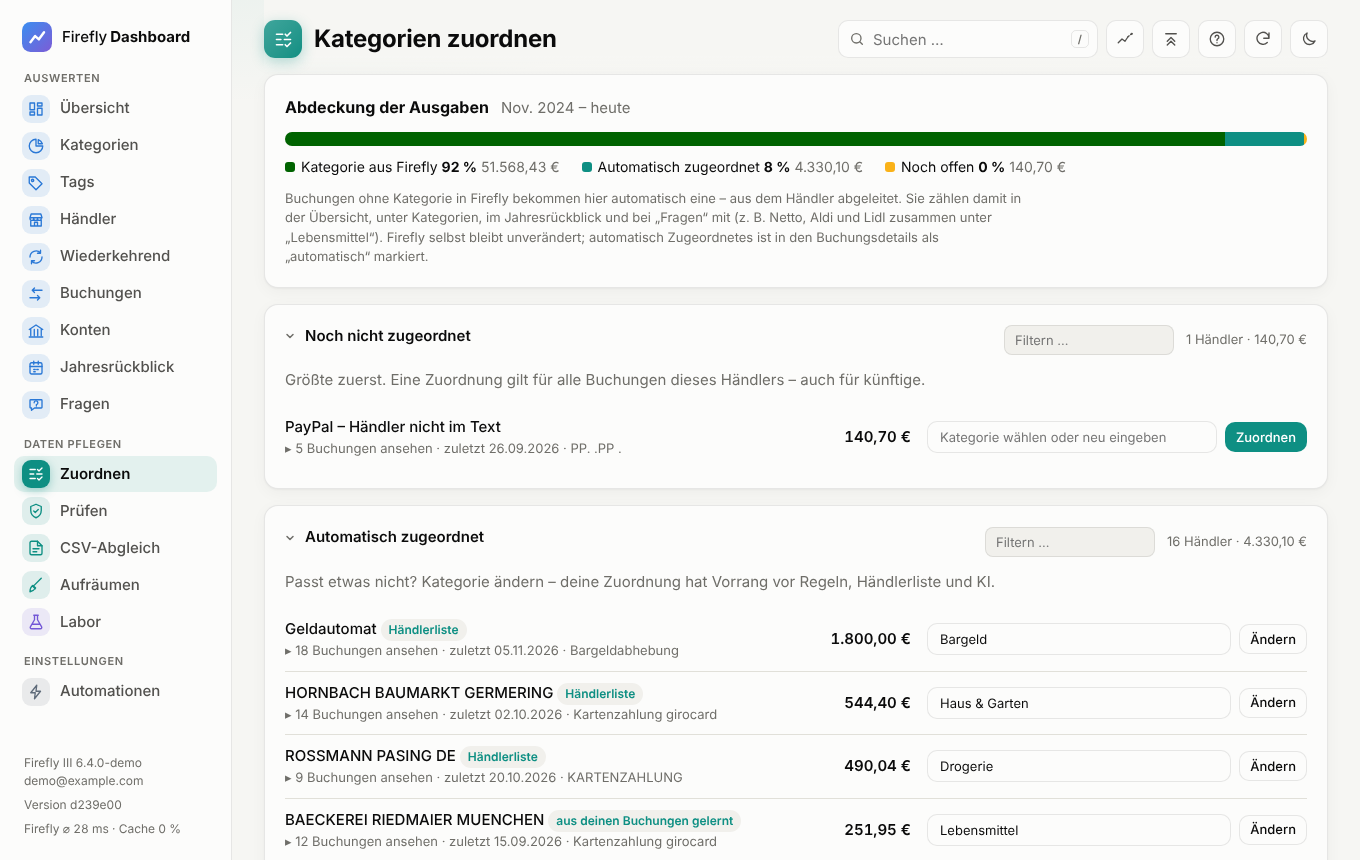
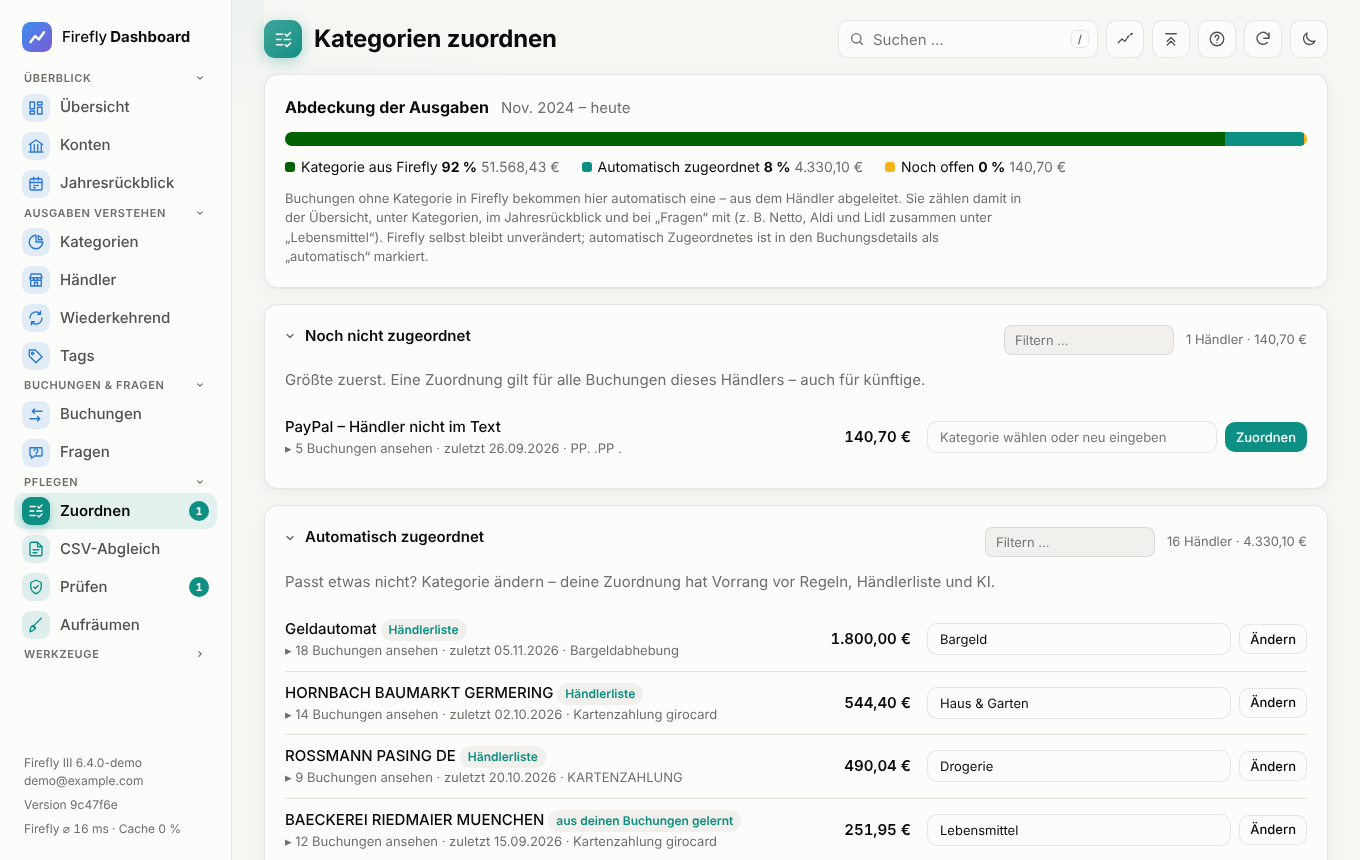
Menü überarbeitet: Gruppen nach Aufgaben, Zähler, Handy-Blatt mit Suche
- Gruppen: Überblick · Ausgaben verstehen · Buchungen & Fragen · Pflegen ·
  Werkzeuge (neu im Menü: Hilfe). Am Desktop einklappbar, Zustand gemerkt,
  die Gruppe der aktuellen Seite bleibt offen; „Werkzeuge“ anfangs zu.
- Zähler an Seiten mit offenen Aufgaben: Zuordnen (Händler ohne Kategorie),
  Prüfen (Hinweise), Wiederkehrend (Kündigungsfristen in 30 Tagen); am Handy
  als Punkt an „Mehr“, wenn der Eintrag nicht in der unteren Leiste steht.
- Handy: „Mehr“ als gegliedertes Blatt mit „Seite suchen“; die untere Leiste
  ist selbst wählbar (bis zu vier Einträge, Standard: Übersicht, Kategorien,
  Buchungen, Wiederkehrend).
- README-Bilder neu (Menü auf allen Bildern).

Claude-Session: https://claude.ai/code/session_017CCe4q4F121UhA8tHqTQzy

diff --git a/public/index.html b/public/index.html
@@ -29,24 +29,51 @@
         <span>Firefly<b>Dashboard</b></span>
       </a>
       <nav class="nav" id="nav" aria-label="Hauptnavigation">
-        <div class="nav-group" role="presentation">Auswerten</div>
-        <a href="#/" data-route="overview" data-primary><svg viewBox="0 0 24 24"><path d="M4 13h6V4H4zm10 7h6v-9h-6zM4 20h6v-4H4zm10-16v4h6V4z"/></svg><span>Übersicht</span></a>
-        <a href="#/kategorien" data-route="categories" data-primary><svg viewBox="0 0 24 24"><path d="M12 3a9 9 0 1 0 9 9h-9z"/><path d="M15 3.5A9 9 0 0 1 20.5 9H15z"/></svg><span>Kategorien</span></a>
-        <a href="#/tags" data-route="tags"><svg viewBox="0 0 24 24"><path d="M3 12V4h8l9 9-8 8z"/><circle cx="7.5" cy="8.5" r="1.5"/></svg><span>Tags</span></a>
-        <a href="#/empfaenger" data-route="merchants"><svg viewBox="0 0 24 24"><path d="M4 9l1.5-5h13L20 9M4 9h16M4 9v1a2.5 2.5 0 0 0 5 0 2.5 2.5 0 0 0 5 0 2.5 2.5 0 0 0 5 0V9M5 12v8h14v-8M10 20v-5h4v5"/></svg><span>Händler</span></a>
-        <a href="#/wiederkehrend" data-route="recurring"><svg viewBox="0 0 24 24"><path d="M4 12a8 8 0 0 1 14-5.3M20 12a8 8 0 0 1-14 5.3M18 3v4h-4M6 21v-4h4"/></svg><span>Wiederkehrend</span></a>
-        <a href="#/buchungen" data-route="transactions" data-primary><svg viewBox="0 0 24 24"><path d="M7 7h13M7 7l3-3M7 7l3 3M17 17H4m13 0-3-3m3 3-3 3"/></svg><span>Buchungen</span></a>
-        <a href="#/konten" data-route="accounts"><svg viewBox="0 0 24 24"><path d="M3 10 12 4l9 6M5 10v8m4.7-8v8m4.6-8v8M19 10v8M3 20h18"/></svg><span>Konten</span></a>
-        <a href="#/jahr" data-route="year"><svg viewBox="0 0 24 24"><rect x="4" y="5" width="16" height="15" rx="2"/><path d="M4 10h16M9 3v4m6-4v4m-6 7h2m2 0h2m-6 3h2"/></svg><span>Jahresrückblick</span></a>
-        <a href="#/fragen" data-route="ask" data-primary><svg viewBox="0 0 24 24"><path d="M5 5h14a1 1 0 0 1 1 1v9a1 1 0 0 1-1 1H10l-4 3v-3H5a1 1 0 0 1-1-1V6a1 1 0 0 1 1-1z"/><path d="M9.5 9a2.5 2.5 0 1 1 3 2.4V12.5M12.5 14.5v.01"/></svg><span>Fragen</span></a>
-        <div class="nav-group" role="presentation">Daten pflegen</div>
-        <a href="#/zuordnen" data-route="assign"><svg viewBox="0 0 24 24"><path d="M4 6h7M4 12h5M4 18h7M14 6l2 2 4-4M14 18l2 2 4-4M13 12h7"/></svg><span>Zuordnen</span></a>
-        <a href="#/pruefen" data-route="check"><svg viewBox="0 0 24 24"><path d="M9 12l2 2 4-4"/><path d="M12 3l7 3v5c0 4.5-3 8.5-7 10-4-1.5-7-5.5-7-10V6z"/></svg><span>Prüfen</span></a>
-        <a href="#/abgleich" data-route="csvsync"><svg viewBox="0 0 24 24"><path d="M14 3H6a2 2 0 0 0-2 2v14a2 2 0 0 0 2 2h12a2 2 0 0 0 2-2V9z"/><path d="M14 3v6h6M8 13h8M8 17h5"/></svg><span>CSV-Abgleich</span></a>
-        <a href="#/aufraeumen" data-route="cleanup"><svg viewBox="0 0 24 24"><path d="M19 3 9.5 12.5M7 13l4 4M4 21c0-4 1.5-7 4-8.5l3.5 3.5C10 18.5 7 20 4 21z"/></svg><span>Aufräumen</span></a>
-        <a href="#/labor" data-route="lab"><svg viewBox="0 0 24 24"><path d="M9 3h6M10 3v6l-5.5 9.5A1.7 1.7 0 0 0 6 21h12a1.7 1.7 0 0 0 1.5-2.5L14 9V3M7.5 15h9"/></svg><span>Labor</span></a>
-        <div class="nav-group" role="presentation">Einstellungen</div>
-        <a href="#/automationen" data-route="actions"><svg viewBox="0 0 24 24"><path d="M13 3 5 13h6l-1 8 8-10h-6z"/></svg><span>Automationen</span></a>
+        <div class="nav-sheet-tools">
+          <input type="search" class="nav-find" id="nav-find" placeholder="Seite suchen …" aria-label="Seite suchen" autocomplete="off">
+          <button type="button" class="link-btn nav-pin-toggle" id="nav-pin-toggle" aria-pressed="false">Untere Leiste anpassen</button>
+        </div>
+        <div class="nav-sec" data-sec="ueberblick">
+          <button type="button" class="nav-group" aria-expanded="true"><span>Überblick</span><svg viewBox="0 0 24 24" aria-hidden="true"><path d="m8 10 4 4 4-4"/></svg></button>
+          <div class="nav-items">
+            <a href="#/" data-route="overview"><svg viewBox="0 0 24 24"><path d="M4 13h6V4H4zm10 7h6v-9h-6zM4 20h6v-4H4zm10-16v4h6V4z"/></svg><span>Übersicht</span></a>
+            <a href="#/konten" data-route="accounts"><svg viewBox="0 0 24 24"><path d="M3 10 12 4l9 6M5 10v8m4.7-8v8m4.6-8v8M19 10v8M3 20h18"/></svg><span>Konten</span></a>
+            <a href="#/jahr" data-route="year"><svg viewBox="0 0 24 24"><rect x="4" y="5" width="16" height="15" rx="2"/><path d="M4 10h16M9 3v4m6-4v4m-6 7h2m2 0h2m-6 3h2"/></svg><span>Jahresrückblick</span></a>
+          </div>
+        </div>
+        <div class="nav-sec" data-sec="verstehen">
+          <button type="button" class="nav-group" aria-expanded="true"><span>Ausgaben verstehen</span><svg viewBox="0 0 24 24" aria-hidden="true"><path d="m8 10 4 4 4-4"/></svg></button>
+          <div class="nav-items">
+            <a href="#/kategorien" data-route="categories"><svg viewBox="0 0 24 24"><path d="M12 3a9 9 0 1 0 9 9h-9z"/><path d="M15 3.5A9 9 0 0 1 20.5 9H15z"/></svg><span>Kategorien</span></a>
+            <a href="#/empfaenger" data-route="merchants"><svg viewBox="0 0 24 24"><path d="M4 9l1.5-5h13L20 9M4 9h16M4 9v1a2.5 2.5 0 0 0 5 0 2.5 2.5 0 0 0 5 0 2.5 2.5 0 0 0 5 0V9M5 12v8h14v-8M10 20v-5h4v5"/></svg><span>Händler</span></a>
+            <a href="#/wiederkehrend" data-route="recurring"><svg viewBox="0 0 24 24"><path d="M4 12a8 8 0 0 1 14-5.3M20 12a8 8 0 0 1-14 5.3M18 3v4h-4M6 21v-4h4"/></svg><span>Wiederkehrend</span><b class="nav-badge" data-badge="recurring" hidden></b></a>
+            <a href="#/tags" data-route="tags"><svg viewBox="0 0 24 24"><path d="M3 12V4h8l9 9-8 8z"/><circle cx="7.5" cy="8.5" r="1.5"/></svg><span>Tags</span></a>
+          </div>
+        </div>
+        <div class="nav-sec" data-sec="buchungen">
+          <button type="button" class="nav-group" aria-expanded="true"><span>Buchungen & Fragen</span><svg viewBox="0 0 24 24" aria-hidden="true"><path d="m8 10 4 4 4-4"/></svg></button>
+          <div class="nav-items">
+            <a href="#/buchungen" data-route="transactions"><svg viewBox="0 0 24 24"><path d="M7 7h13M7 7l3-3M7 7l3 3M17 17H4m13 0-3-3m3 3-3 3"/></svg><span>Buchungen</span></a>
+            <a href="#/fragen" data-route="ask"><svg viewBox="0 0 24 24"><path d="M5 5h14a1 1 0 0 1 1 1v9a1 1 0 0 1-1 1H10l-4 3v-3H5a1 1 0 0 1-1-1V6a1 1 0 0 1 1-1z"/><path d="M9.5 9a2.5 2.5 0 1 1 3 2.4V12.5M12.5 14.5v.01"/></svg><span>Fragen</span></a>
+          </div>
+        </div>
+        <div class="nav-sec" data-sec="pflegen">
+          <button type="button" class="nav-group" aria-expanded="true"><span>Pflegen</span><svg viewBox="0 0 24 24" aria-hidden="true"><path d="m8 10 4 4 4-4"/></svg></button>
+          <div class="nav-items">
+            <a href="#/zuordnen" data-route="assign"><svg viewBox="0 0 24 24"><path d="M4 6h7M4 12h5M4 18h7M14 6l2 2 4-4M14 18l2 2 4-4M13 12h7"/></svg><span>Zuordnen</span><b class="nav-badge" data-badge="assign" hidden></b></a>
+            <a href="#/abgleich" data-route="csvsync"><svg viewBox="0 0 24 24"><path d="M14 3H6a2 2 0 0 0-2 2v14a2 2 0 0 0 2 2h12a2 2 0 0 0 2-2V9z"/><path d="M14 3v6h6M8 13h8M8 17h5"/></svg><span>CSV-Abgleich</span></a>
+            <a href="#/pruefen" data-route="check"><svg viewBox="0 0 24 24"><path d="M9 12l2 2 4-4"/><path d="M12 3l7 3v5c0 4.5-3 8.5-7 10-4-1.5-7-5.5-7-10V6z"/></svg><span>Prüfen</span><b class="nav-badge" data-badge="check" hidden></b></a>
+            <a href="#/aufraeumen" data-route="cleanup"><svg viewBox="0 0 24 24"><path d="M19 3 9.5 12.5M7 13l4 4M4 21c0-4 1.5-7 4-8.5l3.5 3.5C10 18.5 7 20 4 21z"/></svg><span>Aufräumen</span></a>
+          </div>
+        </div>
+        <div class="nav-sec" data-sec="werkzeuge">
+          <button type="button" class="nav-group" aria-expanded="true"><span>Werkzeuge</span><svg viewBox="0 0 24 24" aria-hidden="true"><path d="m8 10 4 4 4-4"/></svg></button>
+          <div class="nav-items">
+            <a href="#/labor" data-route="lab"><svg viewBox="0 0 24 24"><path d="M9 3h6M10 3v6l-5.5 9.5A1.7 1.7 0 0 0 6 21h12a1.7 1.7 0 0 0 1.5-2.5L14 9V3M7.5 15h9"/></svg><span>Labor</span></a>
+            <a href="#/automationen" data-route="actions"><svg viewBox="0 0 24 24"><path d="M13 3 5 13h6l-1 8 8-10h-6z"/></svg><span>Automationen</span></a>
+            <a href="#/hilfe" data-route="help"><svg viewBox="0 0 24 24"><circle cx="12" cy="12" r="9"/><path d="M9.5 9.5a2.5 2.5 0 1 1 3.5 2.3c-.6.3-1 .9-1 1.6v.6M12 17h.01"/></svg><span>Hilfe</span></a>
+          </div>
+        </div>
         <button type="button" class="nav-more" id="nav-more" aria-expanded="false" aria-controls="nav"><svg viewBox="0 0 24 24"><circle cx="5" cy="12" r="1.6"/><circle cx="12" cy="12" r="1.6"/><circle cx="19" cy="12" r="1.6"/></svg><span>Mehr</span></button>
       </nav>
       <div class="sidebar-foot" id="instance-info"></div>

diff --git a/public/js/nav.js b/public/js/nav.js
@@ -1,0 +1,162 @@
+// Hauptmenü: Gruppen nach Aufgaben (am Desktop einklappbar), untere Leiste am Handy selbst wählbar,
+// „Mehr“ als gegliedertes Blatt mit Suche, Zähler an Seiten mit offenen Aufgaben.
+
+import { storage, store } from './util.js';
+import { checkHints } from './check.js';
+
+const PRIMARY_DEFAULT = ['overview', 'categories', 'transactions', 'recurring'];
+const PRIMARY_MAX = 4;
+const FOLD_DEFAULT = ['werkzeuge'];
+
+const readList = (key, fallback) => {
+  try {
+    const v = JSON.parse(storage(key, 'null'));
+    return Array.isArray(v) ? v : fallback;
+  } catch {
+    return fallback;
+  }
+};
+
+const nav = () => document.getElementById('nav');
+const links = () => [...nav().querySelectorAll('a[data-route]')];
+
+// ---- Gruppen einklappen (Desktop) -------------------------------------------------------
+let folded = new Set(readList('ffd-nav-folded', FOLD_DEFAULT));
+function applyFolds() {
+  nav().querySelectorAll('.nav-sec').forEach((sec) => {
+    // die Gruppe der aktuellen Seite bleibt sichtbar
+    const open = !folded.has(sec.dataset.sec) || Boolean(sec.querySelector('a.active'));
+    sec.classList.toggle('folded', !open);
+    sec.querySelector('.nav-group').setAttribute('aria-expanded', String(open));
+  });
+}
+
+// ---- Untere Leiste am Handy -------------------------------------------------------------
+let primary = readList('ffd-nav-primary', PRIMARY_DEFAULT).filter((r) => links().some((a) => a.dataset.route === r)).slice(0, PRIMARY_MAX);
+if (!primary.length) primary = PRIMARY_DEFAULT;
+function applyPrimary() {
+  links().forEach((a) => {
+    const on = primary.includes(a.dataset.route);
+    a.toggleAttribute('data-primary', on);
+    // Reihenfolge nur für die untere Leiste am Handy (CSS), Menü und Blatt bleiben nach Gruppen sortiert
+    if (on) a.style.setProperty('--nav-order', String(primary.indexOf(a.dataset.route)));
+    else a.style.removeProperty('--nav-order');
+  });
+}
+
+// ---- Zähler ---------------------------------------------------------------------------
+let badgeAt = 0;
+function setBadge(route, n, title) {
+  const b = nav().querySelector(`[data-badge="${route}"]`);
+  if (!b) return;
+  b.hidden = !n;
+  b.textContent = n > 99 ? '99+' : String(n || '');
+  b.title = n ? title : '';
+  b.closest('a').title = n ? title : '';
+}
+function markMore() {
+  // „Mehr“ markieren, wenn ein Zähler an einem Punkt außerhalb der unteren Leiste steht
+  const hidden = [...nav().querySelectorAll('.nav-badge:not([hidden])')].some((b) => !b.closest('a').hasAttribute('data-primary'));
+  document.getElementById('nav-more').classList.toggle('has-badge', hidden);
+}
+/** Zähler neu holen – höchstens einmal je Minute (außer force). Fehler stören nicht. */
+export async function updateBadges(force = false) {
+  if (!force && Date.now() - badgeAt < 60_000) return;
+  badgeAt = Date.now();
+  await Promise.all([
+    fetch('/local/autocat?anzahl=1').then((r) => (r.ok ? r.json() : null)).then((d) => {
+      if (d) setBadge('assign', d.offen || 0, `${d.offen} Händler noch ohne Kategorie`);
+    }).catch(() => {}),
+    checkHints().then((rows) => setBadge('check', rows.length, `${rows.length} Hinweis${rows.length === 1 ? '' : 'e'} zum Prüfen (doppelte Buchungen, Import überfällig)`)).catch(() => {}),
+    fetch('/local/alerts').then((r) => (r.ok ? r.json() : null)).then((d) => {
+      const n = (d?.alerts || []).filter((a) => a.art === 'kuendigungsfrist').length;
+      setBadge('recurring', n, `${n} Kündigungsfrist${n === 1 ? '' : 'en'} in den nächsten 30 Tagen`);
+    }).catch(() => {}),
+  ]);
+  markMore();
+}
+
+// ---- „Mehr“-Blatt: Suche und Leiste anpassen ----------------------------------------------
+let pinning = false;
+function setPinning(on) {
+  pinning = on;
+  nav().classList.toggle('nav-pinning', on);
+  const btn = document.getElementById('nav-pin-toggle');
+  btn.setAttribute('aria-pressed', String(on));
+  btn.textContent = on ? `Fertig (${primary.length}/${PRIMARY_MAX} unten)` : 'Untere Leiste anpassen';
+}
+function filterSheet(q) {
+  const t = q.trim().toLowerCase();
+  nav().querySelectorAll('.nav-sec').forEach((sec) => {
+    let any = false;
+    sec.querySelectorAll('a[data-route]').forEach((a) => {
+      const hit = !t || a.textContent.toLowerCase().includes(t) || sec.querySelector('.nav-group').textContent.toLowerCase().includes(t);
+      a.classList.toggle('nav-miss', !hit);
+      any ||= hit;
+    });
+    sec.classList.toggle('nav-miss', !any);
+  });
+}
+/** Nach dem Schließen des Blatts: Suche und Anpassen zurücksetzen. */
+export function resetSheet() {
+  const find = document.getElementById('nav-find');
+  if (find.value) {
+    find.value = '';
+    filterSheet('');
+  }
+  if (pinning) setPinning(false);
+}
+
+/** Nach jedem Seitenwechsel (aktive Seite steht fest). */
+export function navRendered() {
+  applyFolds();
+  updateBadges();
+}
+
+export function initNav({ onNavigate }) {
+  applyPrimary();
+  applyFolds();
+  nav().addEventListener('click', (e) => {
+    const head = e.target.closest('.nav-group');
+    if (head && !document.querySelector('.sidebar').classList.contains('nav-open')) {
+      const key = head.closest('.nav-sec').dataset.sec;
+      if (folded.has(key)) folded.delete(key);
+      else folded.add(key);
+      store('ffd-nav-folded', JSON.stringify([...folded]));
+      // aktive Gruppe: Einklappen erst wirksam, wenn man woanders ist – trotzdem sofort zeigen
+      const sec = head.closest('.nav-sec');
+      const open = !folded.has(key);
+      sec.classList.toggle('folded', !open);
+      head.setAttribute('aria-expanded', String(open));
+      return;
+    }
+    if (e.target.closest('#nav-pin-toggle')) {
+      setPinning(!pinning);
+      return;
+    }
+    const a = e.target.closest('a[data-route]');
+    if (a && pinning) {
+      e.preventDefault();
+      const r = a.dataset.route;
+      if (primary.includes(r)) {
+        if (primary.length > 1) primary = primary.filter((x) => x !== r);
+      } else if (primary.length < PRIMARY_MAX) primary = [...primary, r];
+      else primary = [...primary.slice(1), r]; // voll: der älteste fliegt raus
+      store('ffd-nav-primary', JSON.stringify(primary));
+      applyPrimary();
+      markMore();
+      setPinning(true);
+      return;
+    }
+    if (a) onNavigate?.();
+  });
+  document.getElementById('nav-find').addEventListener('input', (e) => filterSheet(e.target.value));
+  document.getElementById('nav-find').addEventListener('keydown', (e) => {
+    if (e.key !== 'Enter') return;
+    const first = links().find((a) => !a.classList.contains('nav-miss'));
+    if (first) location.hash = first.getAttribute('href').slice(1);
+  });
+  setTimeout(() => updateBadges(true), 4000); // erst wenn die erste Seite geladen ist
+  setInterval(() => updateBadges(true), 10 * 60_000);
+  for (const ev of ['ffd-rerender', 'ffd-excluded']) window.addEventListener(ev, () => setTimeout(() => updateBadges(true), 1500));
+}

diff --git a/public/styles.css b/public/styles.css
@@ -1449,3 +1449,50 @@ tr.r-edit:hover td { background: var(--surface-2); }
   #r-table .desc .badge, #r-table td.num .flow { white-space: normal; }
   #r-table .desc .badge { display: inline-block; margin-top: 2px; }
 }
+
+/* ---- Menü: Gruppen, Zähler, Handy-Blatt ------------------------------------ */
+.nav-sheet-tools { display: none; }
+.nav-items { display: flex; flex-direction: column; gap: 2px; }
+.nav-sec + .nav-sec { margin-top: 2px; }
+button.nav-group { display: flex; align-items: center; justify-content: space-between; width: 100%; border: 0; background: none; cursor: pointer;
+  font: inherit; font-size: 11px; font-weight: 600; letter-spacing: .06em; text-transform: uppercase; color: var(--text-muted); text-align: left; border-radius: 8px; }
+button.nav-group:hover { color: var(--text-secondary); }
+button.nav-group svg { width: 14px; height: 14px; fill: none; stroke: currentColor; stroke-width: 2; stroke-linecap: round; stroke-linejoin: round; transition: transform .15s; }
+.nav-sec.folded button.nav-group svg { transform: rotate(-90deg); }
+.nav-sec.folded .nav-items { display: none; }
+.nav-sec:nth-child(2) button.nav-group { padding-top: 0; }
+.nav a { position: relative; }
+.nav-badge { margin-left: auto; min-width: 20px; height: 20px; padding: 0 6px; border-radius: 10px; box-sizing: border-box;
+  background: var(--accent); color: #fff; font-size: 11px; font-weight: 700; line-height: 20px; text-align: center; font-variant-numeric: tabular-nums; }
+.nav-badge[hidden] { display: none; }
+.nav .nav-miss { display: none !important; }
+
+@media (max-width: 760px) {
+  /* untere Leiste: Gruppen auflösen, nur die gewählten Punkte (Reihenfolge per order), „Mehr“ zuletzt */
+  .nav-sec, .nav-items, .nav-sec.folded .nav-items { display: contents; }
+  button.nav-group { display: none; }
+  .nav-more { order: 99; position: relative; }
+  .nav a[data-primary] { order: var(--nav-order, 0); }
+  .nav a .nav-badge { position: absolute; top: 1px; left: calc(50% + 6px); margin: 0; min-width: 16px; height: 16px; padding: 0 4px; font-size: 10px; line-height: 16px; }
+  .nav-more.has-badge::after { content: ''; position: absolute; top: 5px; left: calc(50% + 9px); width: 8px; height: 8px; border-radius: 50%; background: var(--accent); }
+
+  /* „Mehr“: Blatt mit Suche und Gruppen */
+  .sidebar.nav-open .nav { display: block; max-height: calc(100vh - 90px); overflow-y: auto; padding: 4px 4px 0; }
+  .sidebar.nav-open .nav-sheet-tools { display: flex; align-items: center; gap: 10px; padding: 6px 4px 4px; }
+  .nav-find { flex: 1; min-width: 0; height: 38px; padding: 0 12px; border-radius: 10px; border: 1px solid var(--grid); background: var(--surface-2); color: var(--text-primary); font-size: 16px; }
+  .nav-pin-toggle { flex: none; font-size: 13px; }
+  .sidebar.nav-open .nav-sec { display: block; }
+  .sidebar.nav-open .nav-items, .sidebar.nav-open .nav-sec.folded .nav-items { display: grid; grid-template-columns: repeat(4, minmax(0, 1fr)); gap: 4px; }
+  .sidebar.nav-open button.nav-group { display: flex; pointer-events: none; padding: 10px 4px 2px; }
+  .sidebar.nav-open button.nav-group svg { display: none; }
+  .sidebar.nav-open .nav a { order: 0; }
+  .sidebar.nav-open .nav a .nav-badge { left: auto; right: 6px; top: 4px; }
+  .sidebar.nav-open .nav-more { width: 100%; flex-direction: row; justify-content: center; gap: 8px; padding: 12px; margin-top: 6px; font-size: 13px; }
+  .sidebar.nav-open .nav-more.has-badge::after { display: none; }
+  .sidebar.nav-open .nav .nav-logout { width: 100%; flex-direction: row; justify-content: center; gap: 8px; }
+  /* Leiste anpassen: Markierung, was unten steht */
+  .nav-pinning a[data-route] { outline: 1px dashed var(--grid); }
+  .nav-pinning a[data-route]::after { content: '☆'; position: absolute; top: 3px; left: 6px; font-size: 13px; color: var(--text-muted); }
+  .nav-pinning a[data-primary] { background: var(--accent-soft); color: var(--accent); outline-color: var(--accent); }
+  .nav-pinning a[data-primary]::after { content: '★'; color: var(--accent); }
+}

diff --git a/public/js/app.js b/public/js/app.js
@@ -16,6 +16,7 @@ import { merchants } from './merchants.js';
 import { askPage } from './ask.js';
 import { partyDetail } from './party.js';
 import { assignPage } from './zuordnen.js';
+import { initNav, navRendered, resetSheet } from './nav.js';
 import { openHelp, helpPage } from './helpui.js';
 import { applyCardFilter, setFolded } from './common.js';
 import { destroyCharts } from './charts.js';
@@ -100,6 +101,7 @@ async function render() {
   // Handy: „Mehr“ markieren, wenn die aktuelle Seite nur im ausgeklappten Menü steht; Menü schließen
   const activeLink = document.querySelector('.nav a.active');
   document.getElementById('nav-more').classList.toggle('active', Boolean(activeLink && !activeLink.hasAttribute('data-primary')));
+  navRendered();
   setNavOpen(false);
   document.querySelector('.period-wrap').hidden = Boolean(route.noPeriod);
   forecastBtn.hidden = Boolean(route.noPeriod);
@@ -206,10 +208,12 @@ setInterval(updatePerf, 30_000);
 
 // ---- Bedienelemente -------------------------------------------------------
 
-// Handy-Navigation: vier Hauptpunkte + „Mehr“ (alle Punkte als Raster) – kein seitliches Wischen
-// am unteren Bildschirmrand nötig, das dort mit der Gesten-Steuerung des Telefons kollidiert
+// Handy-Navigation: vier selbst gewählte Punkte + „Mehr“ (alle Punkte nach Gruppen, mit Suche) – kein
+// seitliches Wischen am unteren Bildschirmrand nötig, das dort mit der Gesten-Steuerung kollidiert
+initNav({ onNavigate: () => setNavOpen(false) });
 function setNavOpen(open) {
   document.querySelector('.sidebar').classList.toggle('nav-open', open);
+  if (!open) resetSheet();
   const btn = document.getElementById('nav-more');
   btn.setAttribute('aria-expanded', String(open));
   btn.querySelector('span').textContent = open ? 'Schließen' : 'Mehr';

diff --git a/lib/ledger.js b/lib/ledger.js
@@ -518,6 +518,11 @@ export function createLedger({ firefly, excluded, autocat, enabled = true, log =
         if (url.searchParams.get('pruefen') === '1') await check();
         return json(200, { aktiv: enabled, monate: [...new Set([...months.keys()].map((k) => k.slice(0, 7)))].sort(), pruefung: lastCheck });
       }
+      // Zähler fürs Menü: Händler, deren Ausgaben noch keine Kategorie haben
+      if (req.method === 'GET' && url.searchParams.has('anzahl')) {
+        const o = await overview({ priority: 'warm' });
+        return json(200, { offen: o.offenAnzahl, betrag: o.summen.offen });
+      }
       if (req.method === 'GET' && url.searchParams.has('haendler')) return json(200, await bookingsOf(url.searchParams.get('haendler'), { priority: 'user' }));
       if (req.method === 'POST') {
         const input = await readBody();

diff --git a/public/sw.js b/public/sw.js
@@ -1,7 +1,7 @@
 // Service Worker: App sofort starten (auch offline) und zuletzt geladene
 // Daten zeigen, wenn der Server nicht erreichbar ist.
 
-const VERSION = 'ffd-57';
+const VERSION = 'ffd-58';
 const SHELL = `${VERSION}-shell`;
 const DATA = `${VERSION}-data`;
 const MAX_DATA_ENTRIES = 400;
